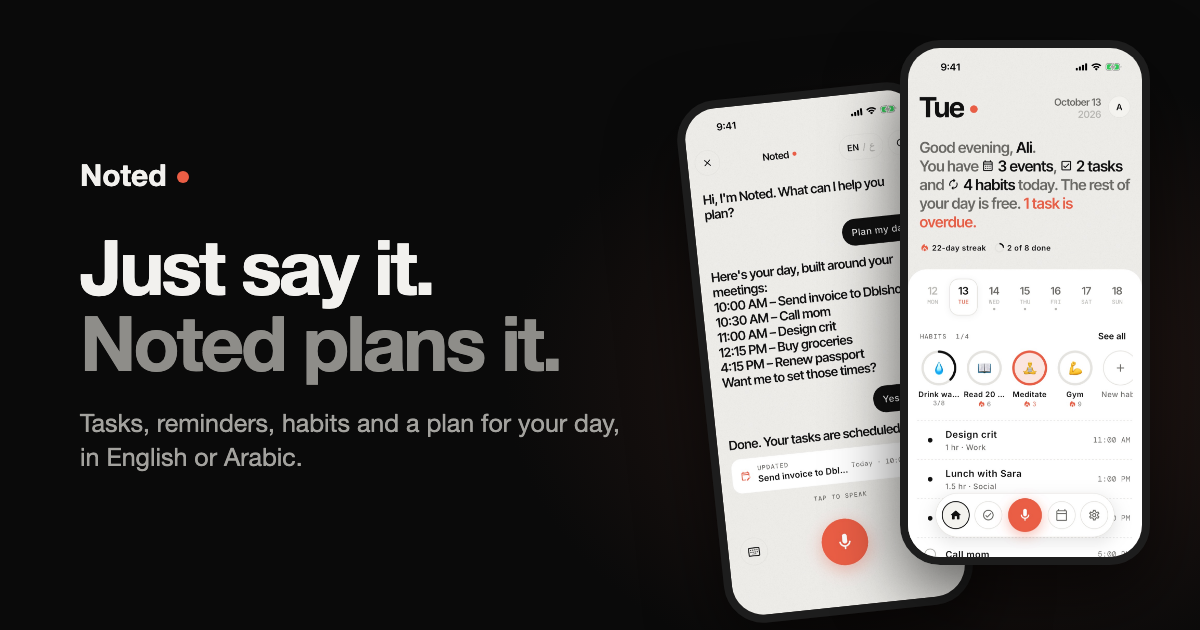
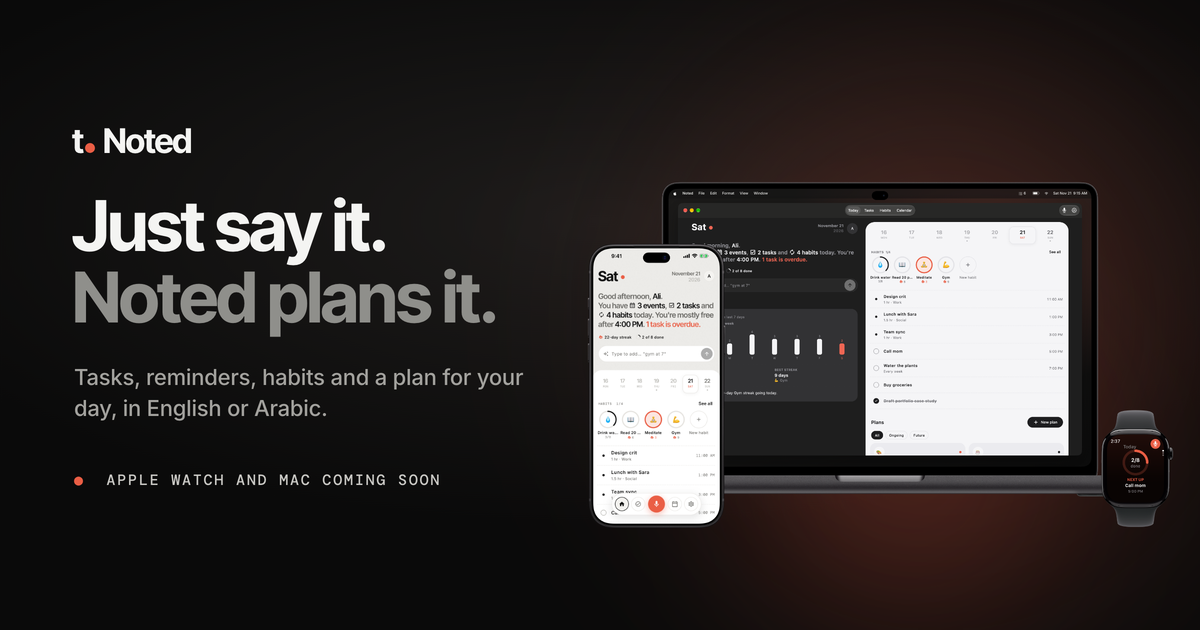
Social preview image: iPhone, Apple Watch and Mac (coming soon)

diff --git a/index.html b/index.html
@@ -17,9 +17,13 @@
 <meta property="og:type" content="website">
 <meta property="og:title" content="Noted: Just say it. Noted plans it.">
 <meta property="og:description" content="Tasks, reminders, habits, lists and a plan for your day, from your voice, in English or Arabic.">
-<meta property="og:image" content="https://www.noted-ai.co/og.png">
+<meta property="og:image" content="https://www.noted-ai.co/og.jpg">
+<meta property="og:image:width" content="2400">
+<meta property="og:image:height" content="1260">
+<meta property="og:image:alt" content="Noted on iPhone, Apple Watch and Mac: Just say it. Noted plans it.">
 <meta property="og:url" content="https://www.noted-ai.co/">
 <meta name="twitter:card" content="summary_large_image">
+<meta name="twitter:image" content="https://www.noted-ai.co/og.jpg">
 <meta name="apple-itunes-app" content="app-id=6822360309">
 <link rel="preload" href="/fonts/InterTight-Bold.woff2" as="font" type="font/woff2" crossorigin>
 <link rel="stylesheet" href="/styles.css">

diff --git a/ar.html b/ar.html
@@ -18,9 +18,13 @@
 <meta property="og:locale" content="ar_AR">
 <meta property="og:title" content="قُلها فقط، وNoted يرتّبها.">
 <meta property="og:description" content="مهامك وتذكيراتك وعاداتك وخطة ليومك، كلها بصوتك. بالعربية أو بالإنجليزية.">
-<meta property="og:image" content="https://www.noted-ai.co/og.png">
+<meta property="og:image" content="https://www.noted-ai.co/og.jpg">
+<meta property="og:image:width" content="2400">
+<meta property="og:image:height" content="1260">
+<meta property="og:image:alt" content="Noted على الآيفون وApple Watch والماك">
 <meta property="og:url" content="https://www.noted-ai.co/ar">
 <meta name="twitter:card" content="summary_large_image">
+<meta name="twitter:image" content="https://www.noted-ai.co/og.jpg">
 <meta name="apple-itunes-app" content="app-id=6822360309">
 <link rel="stylesheet" href="/styles.css">
 <script>
